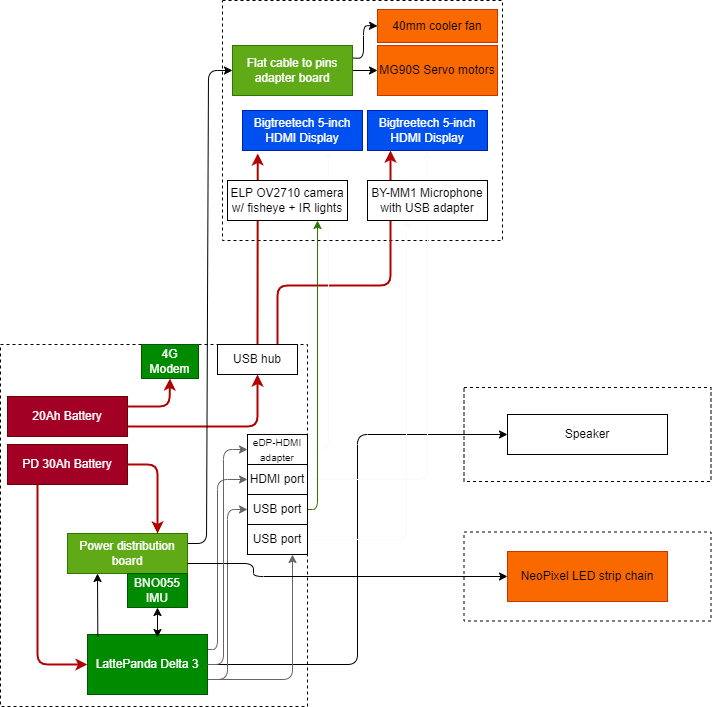
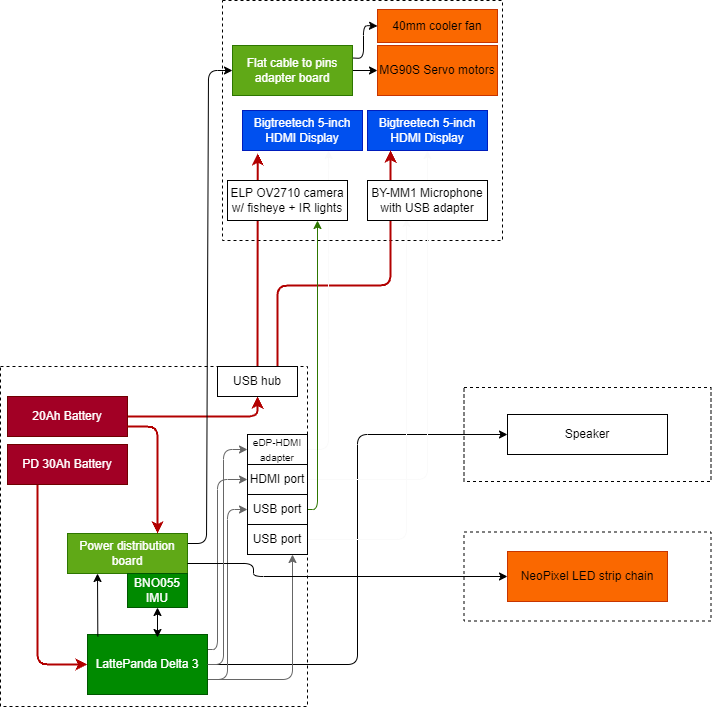
apn.jpg

diff --git a/README.md b/README.md
@@ -109,21 +109,19 @@ Download and install Spotify from the official [Spotify website](https://www.spo
 
 Open Spotify, login/create account (Premium not required but recommended), and make sure that the service is set to start automatically.
 
-### 7. Setup Displays
+### 8. Setup Displays
 
 Set the second display to be an extended display and confirm that both displays are recognized by the system and have the correct resolution.
 
 If a display is recognized but at an incorrect active signal resolution or refresh rate, try using [Custom Resolution Utility (CRU)](https://customresolutionutility.net/) to add a new mode (CVT-RB 800x480@60Hz), then set the video adapter to use this mode.
 
-### 8. Setup 4G Module
+### 9. Setup 4G Module
 
-To allow the suit to connect to the internet outside of WiFi range, I use a 4G LTE Wifi USB modem with a SIM card. Make sure that the LattePanda recognizes the modem and remembers the connection!
+To allow the suit to connect to the internet outside of WiFi range, I use 4G/5G tethering from my phone. Make sure that the LattePanda recognizes and remembers the connection, and that it has some layer of authentication security!
 
-In the case of my modem, the IP address is 192.168.100.1, the default username and password are admin/admin, and the default WiFi access point password is 1234567890. Change these settings to your own for security reasons.
+Make sure that the Access Point Name (APN) is set to ONLY ipv4. This is important since Telegram servers do not support ipv6 and will not work if the APN is set to ipv4/ipv6.
 
-Make sure that the Access Point Name (APN) is set to ONLY ipv4. This is important since Telegram servers do not support ipv6 and will not work if the APN is set to ipv4/ipv6. Also, it should contain the username and password of the SIM card, as expected by the carrier.
-
-If possible, use 4G/3G mode instead of just 4G. This is because 4G mode can be unstable in some areas and the system will not be able to connect to the internet.
+![APN Settings](Planning/apn.jpg)
 
 ## Contributing
 
